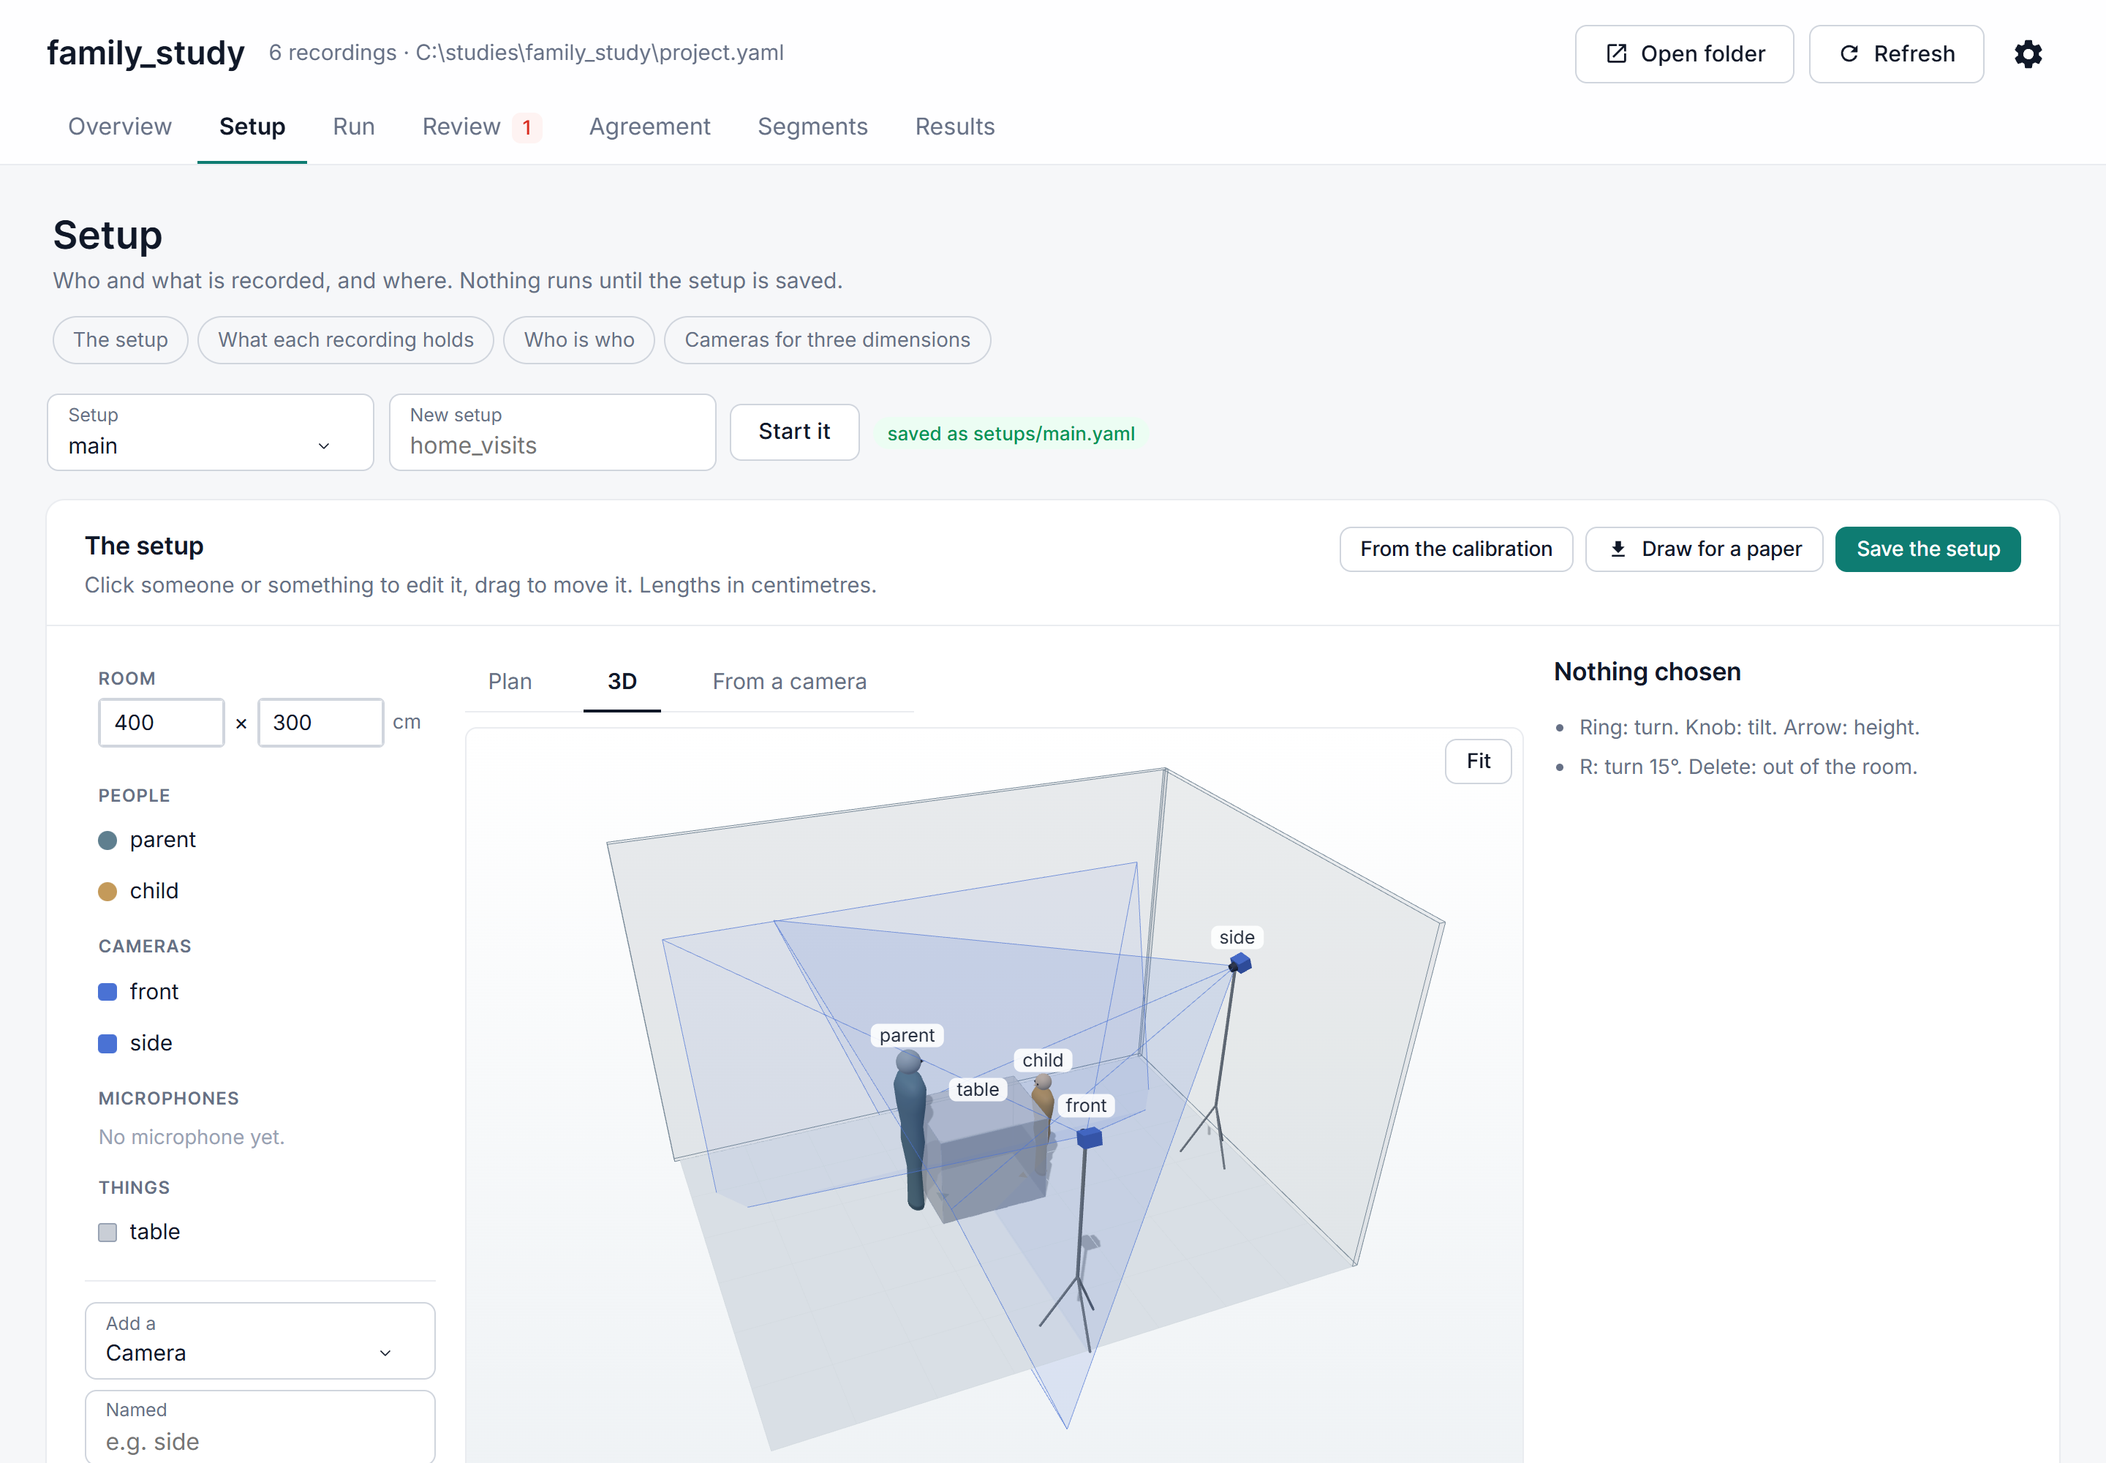
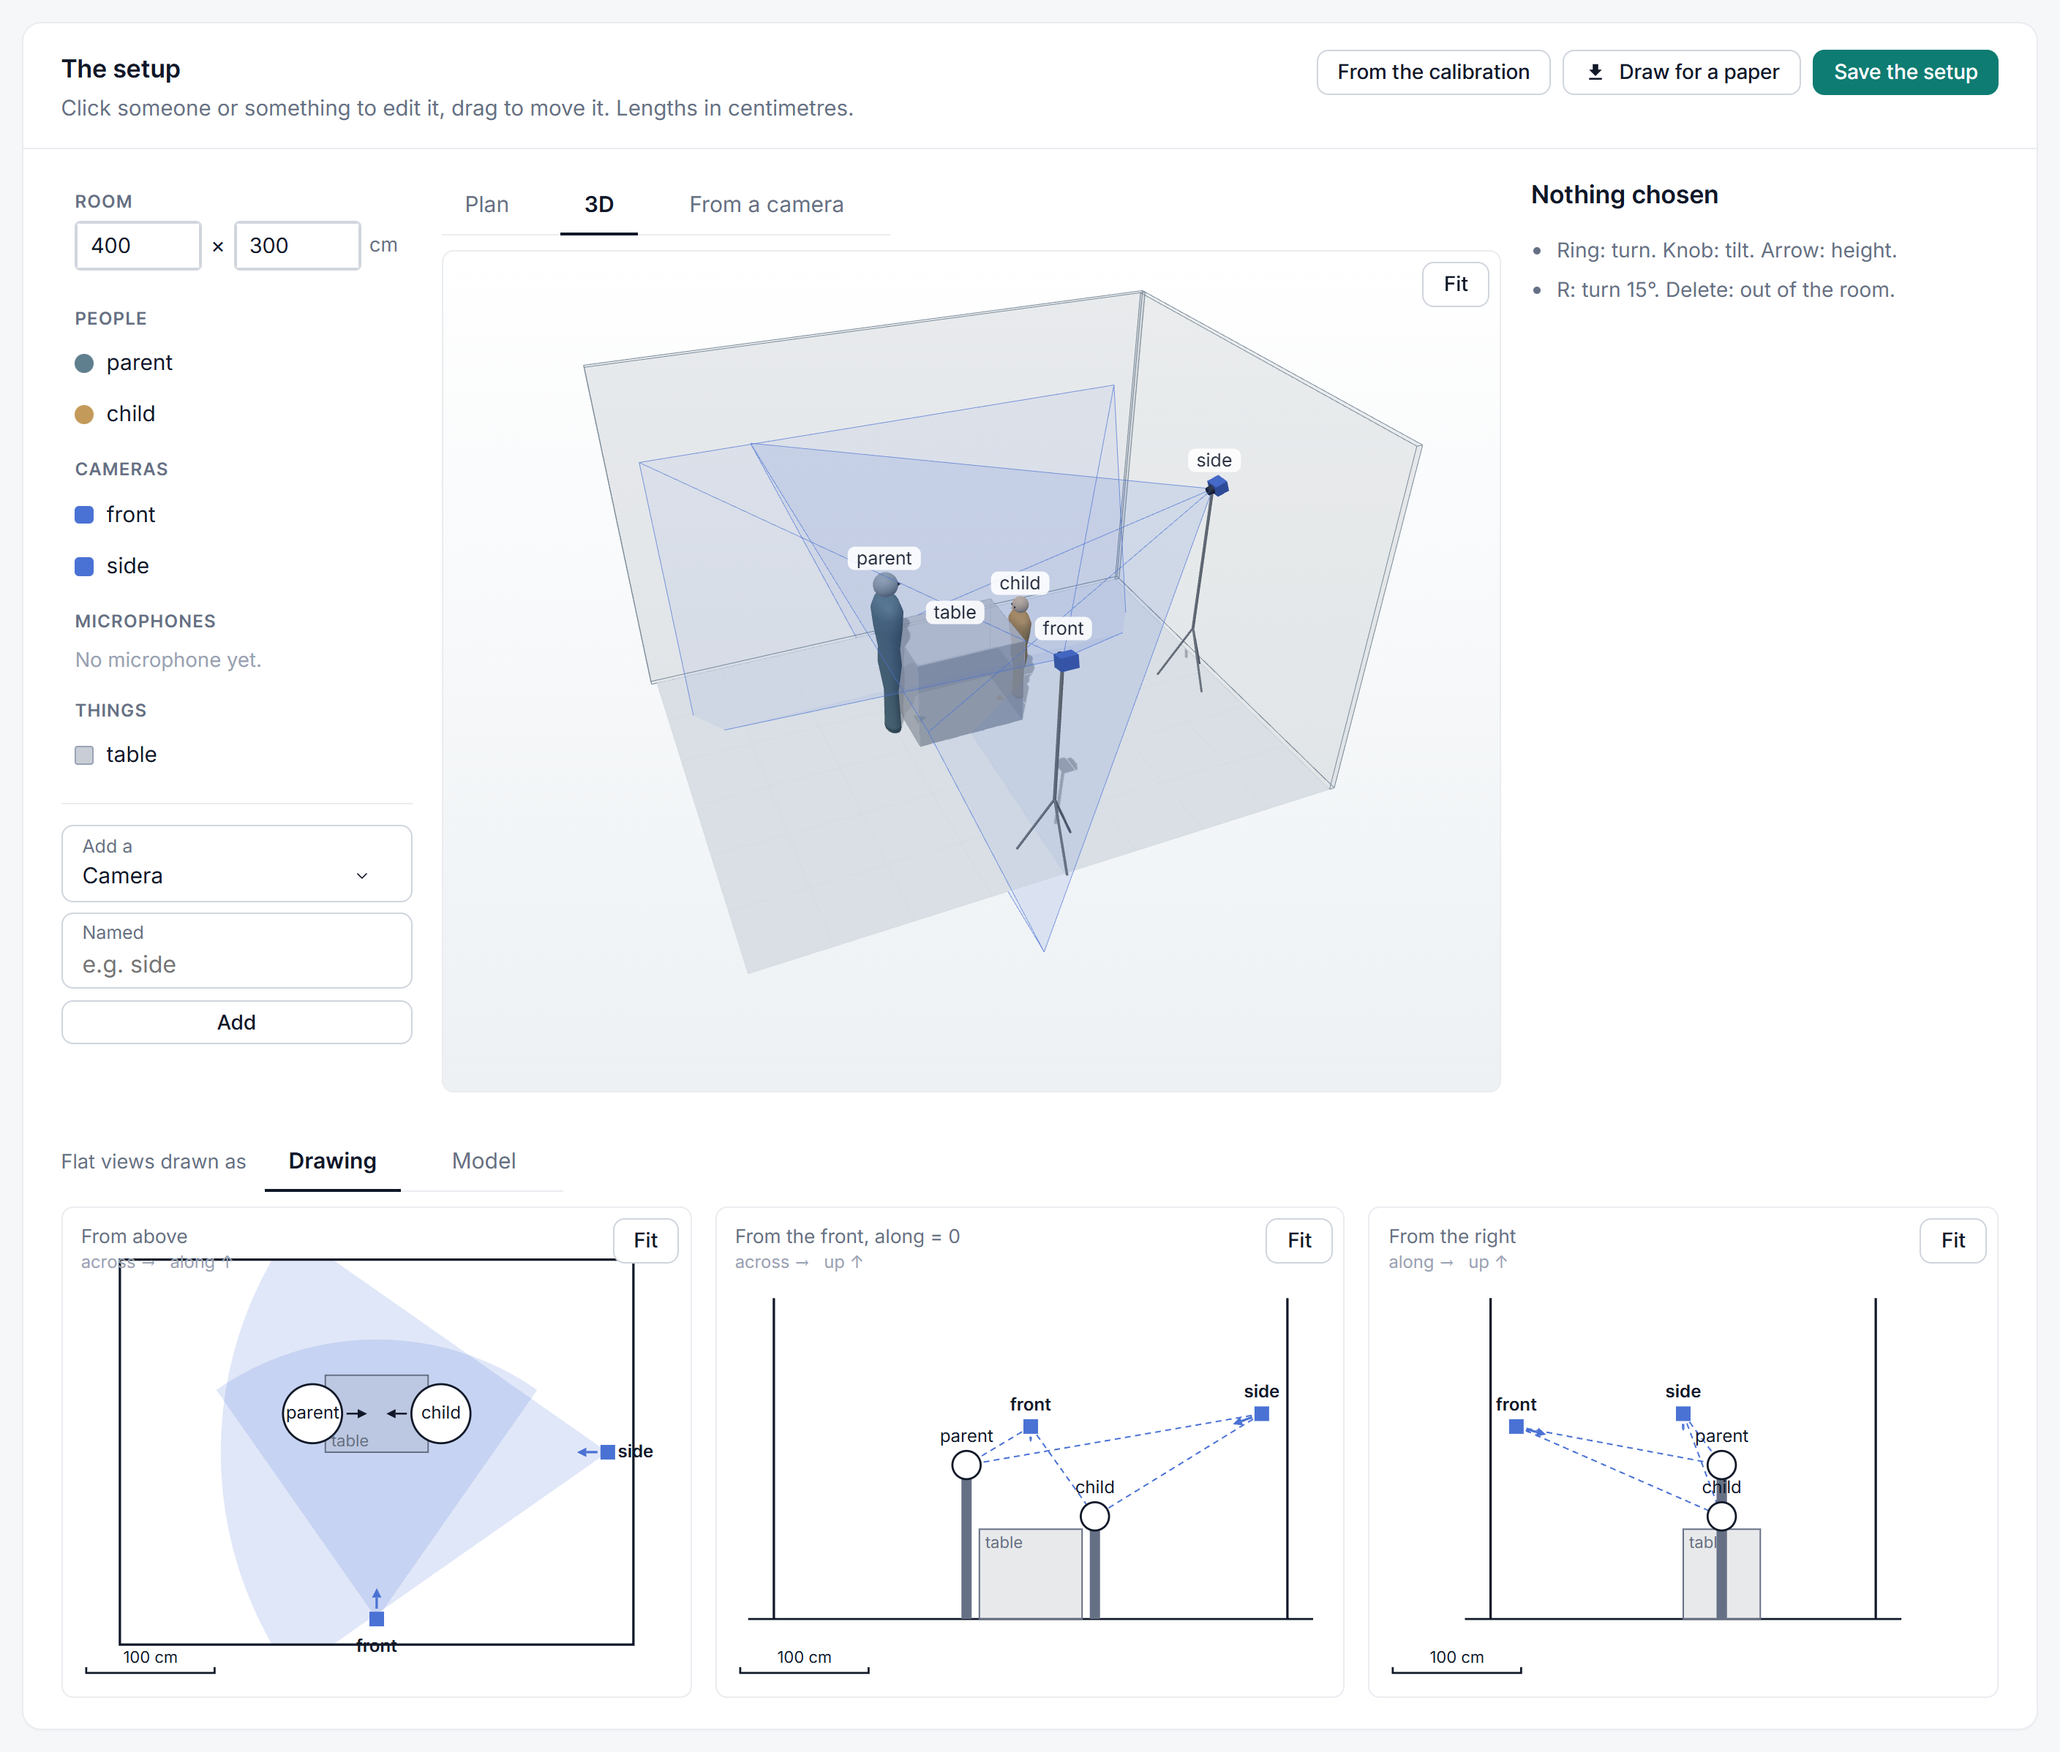
docs: the README's opening screenshot is the setup card alone, the room in 3D with its three flat views, and the guide's step 3 uses the same picture

diff --git a/README.md b/README.md
@@ -4,7 +4,7 @@
 
 MACAW derives time-resolved measures of voice, language, turn-taking, body movement, facial behaviour and gaze from audio and video recordings of dyadic and small-group interaction, and combines them in a single data set for statistical analysis. Decisions that software cannot make reliably, such as which voice belongs to which participant, are referred to the researcher, and every decision is recorded.
 
-![The workbench's Setup page, with two participants at a table and the field of view of each camera in a room drawn in three dimensions](docs/screens/setup.png)
+![The setup card of the workbench: two participants at a table and two cameras with their fields of view, in three dimensions above and in a top, a front and a side view below](docs/screens/setup.png)
 
 ## Scope
 

diff --git a/docs/guide.md b/docs/guide.md
@@ -124,7 +124,7 @@ The card *The setup* lists the participants, cameras, microphones and things on 
 
 ```{figure} screens/setup.png
 :width: 100%
-:alt: The Setup page: a list of the participants, cameras and things on the left, and a room in three dimensions with a parent, a child, a table and two cameras whose fields of view are drawn.
+:alt: The setup card: a list of the participants, cameras and things on the left, a room in three dimensions with a parent, a child, a table and two cameras whose fields of view are drawn, and a top, a front and a side view below.
 
 The card *The setup*, with two participants at a table and two cameras, each with its field of view.
 ```
